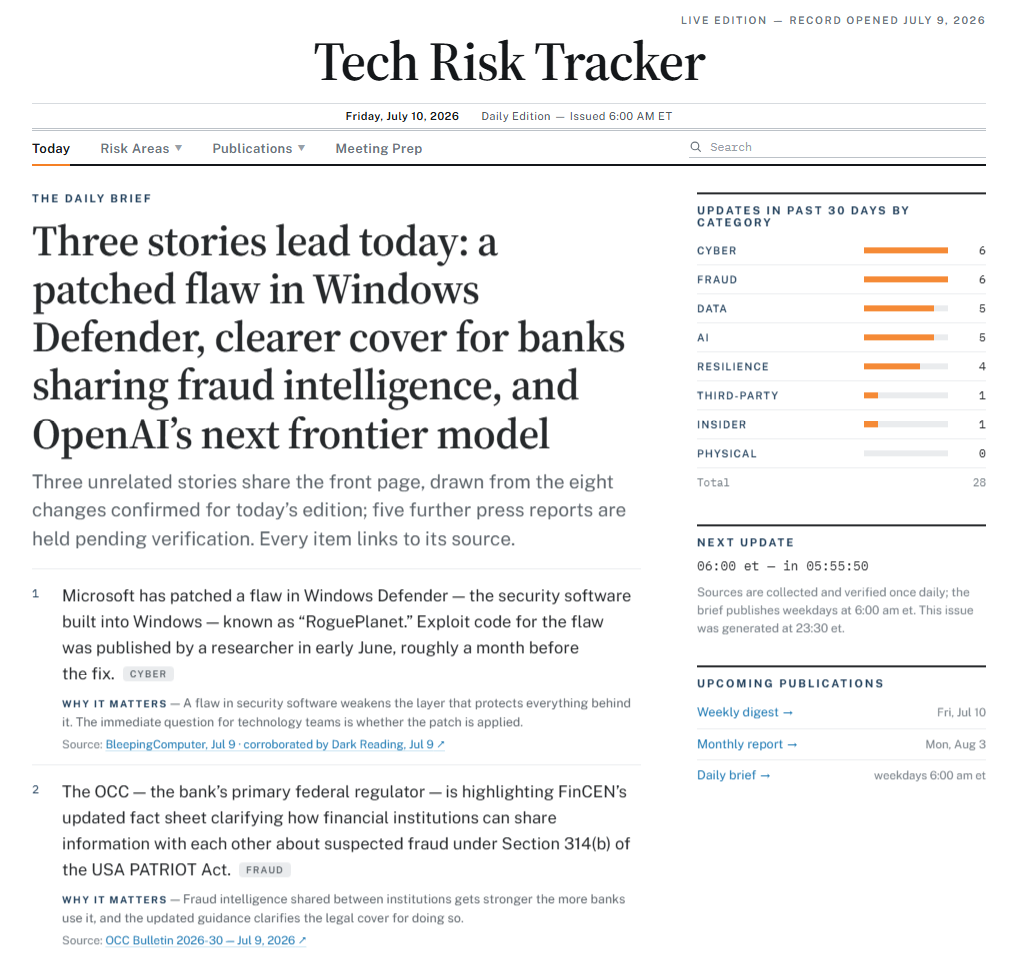
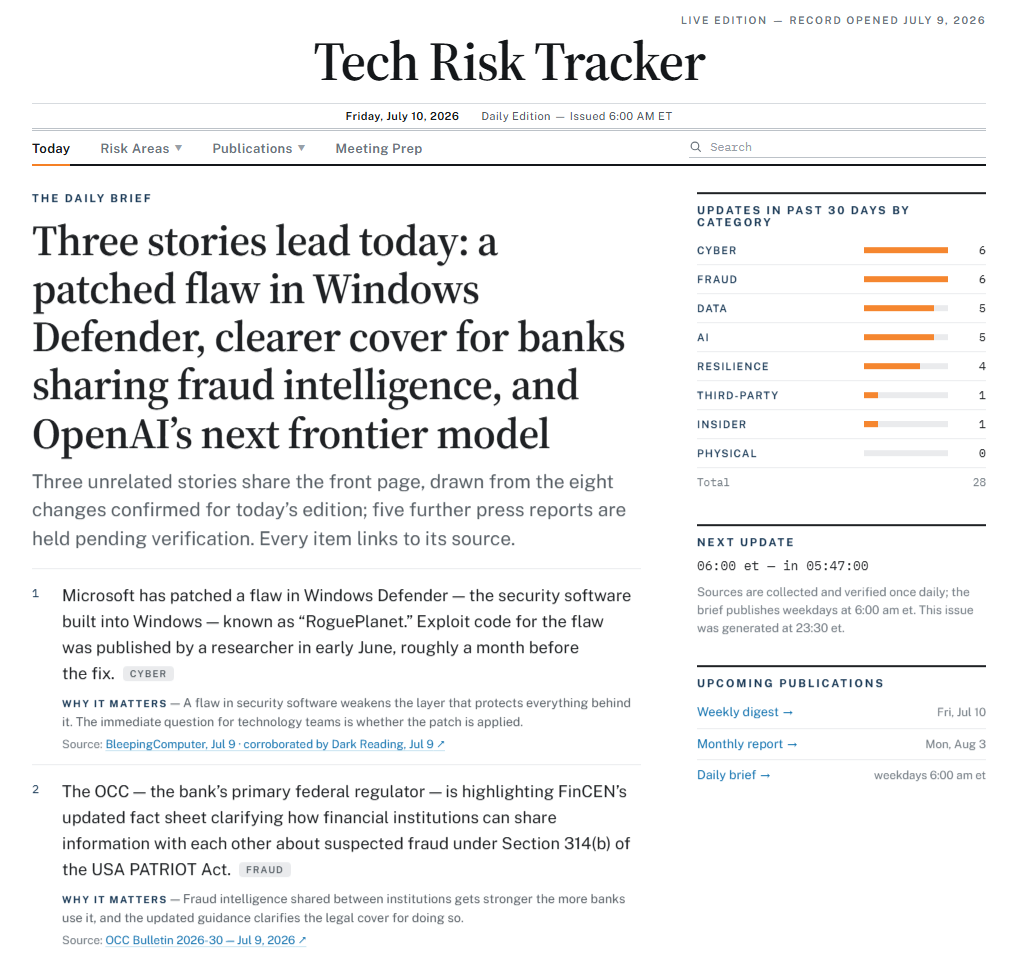
assets: refresh Tech Risk Tracker featured screenshot; cache-bust img URL

Changed region(s): [[0.7613, 0.6875, 0.8222, 0.7188], [0.8222, 0.5625, 0.8527, 0.5938], [0.7004, 0.6875, 0.7308, 0.7188]]

diff --git a/index.html b/index.html
@@ -224,7 +224,7 @@
       <a href="/Tech-Risk-Tracker/" class="featured-link">Open the daily edition →</a>
     </div>
     <a href="/Tech-Risk-Tracker/" class="featured-shot" aria-label="Open the Tech Risk Tracker">
-      <img src="assets/tech-risk-tracker.png" alt="Screenshot of the Tech Risk Tracker daily edition front page">
+      <img src="assets/tech-risk-tracker.png?v=20260710" alt="Screenshot of the Tech Risk Tracker daily edition front page">
     </a>
   </div>
 </section>
